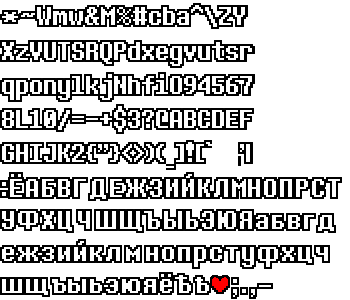
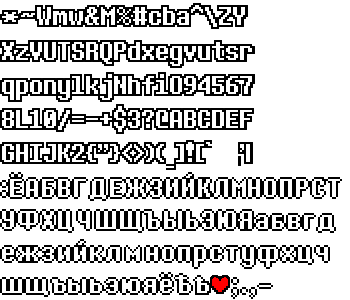
Added rus and eng sprites

diff --git a/sprite_work/font.py b/sprite_work/font.py
@@ -2,7 +2,7 @@
 
 
 
-TEXT = """Switch to Russian"""
+TEXT = """Мировая Премьера"""
 
 
 
@@ -27,10 +27,17 @@ from PIL import Image
 import csv, subprocess, os, sys
 import io
 
-path = "/home/yartom/Загрузки/lambdarune-tests/"
+path = "../"
 
-CSV_FILE = path + "/fonts_align_background/glyphs_fDeterminationMW_2.csv"
-FONT_IMAGE_FILE = path + "fonts_align_background/fDeterminationMW_2.png"
+bg = True
+
+if bg:
+    CSV_FILE = path + "/fonts_align_background/glyphs_fDeterminationMW_2.csv"
+    FONT_IMAGE_FILE = path + "fonts_align_background/fDeterminationMW_2.png"
+else:
+    CSV_FILE = path + "/fonts_align/glyphs_fDeterminationMW.csv"
+    FONT_IMAGE_FILE = path + "fonts_align/fDeterminationMW.png"
+
 
 LINE_SPACING = 0
 CHAR_SPACING = 0
@@ -147,7 +154,6 @@ if __name__ == "__main__":
 
     result = render_text(TEXT, glyphs, font_img)
 
-    result.save("out.png")
     print("Создано out.png")
 
     copy_to_clipboard(result)